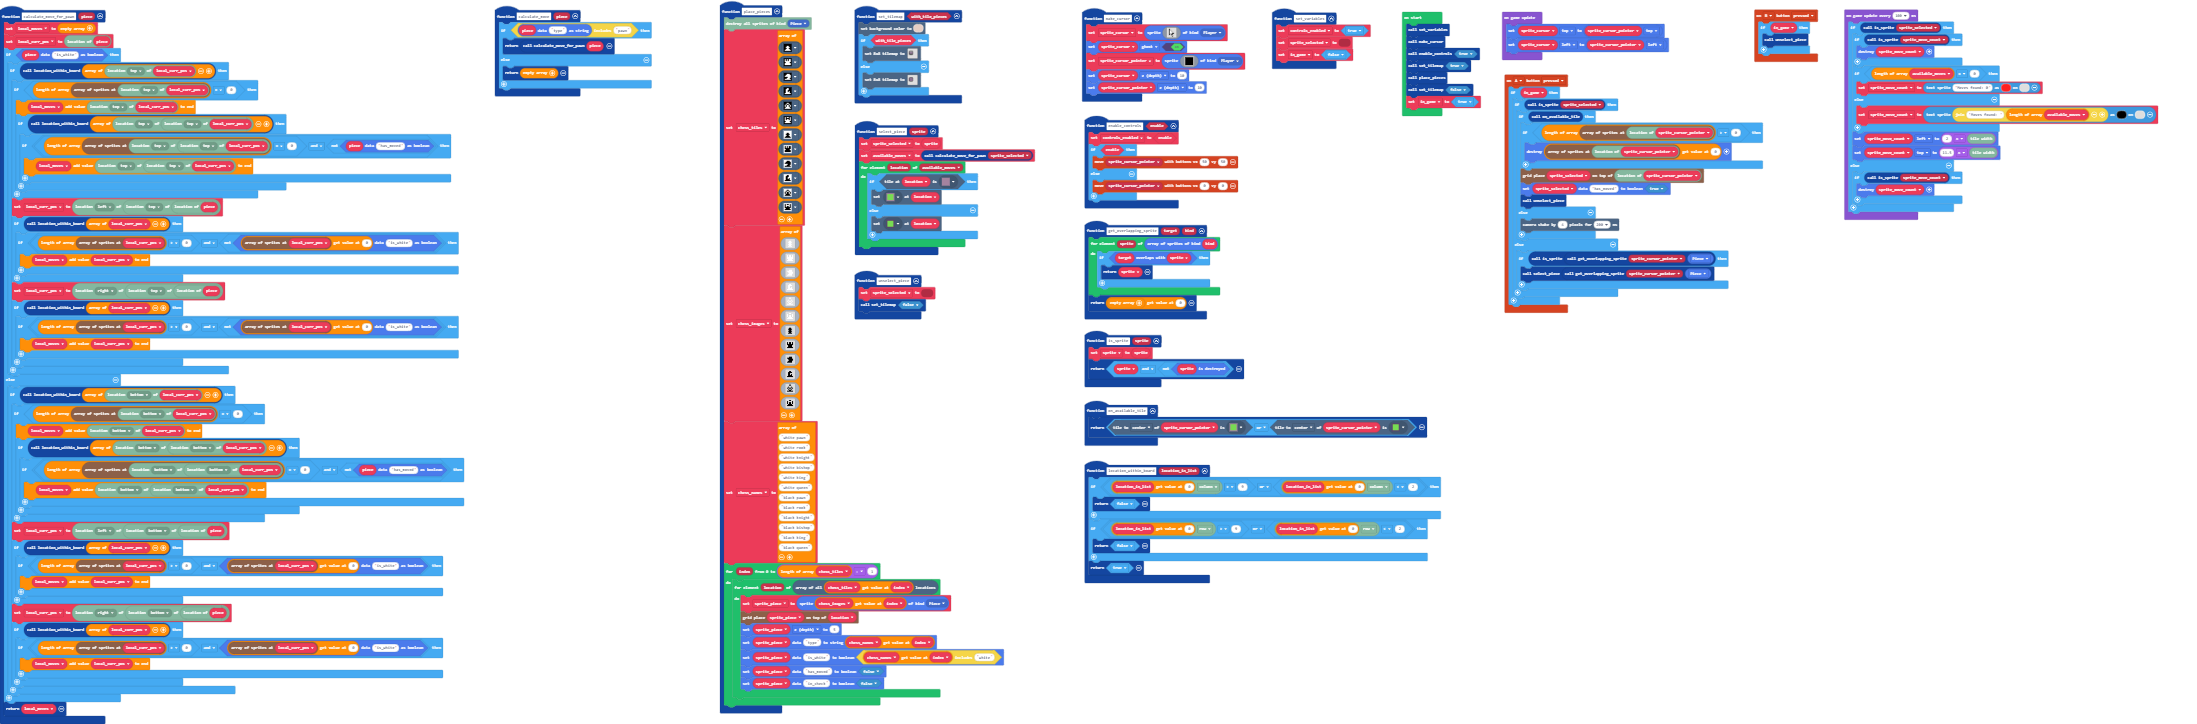
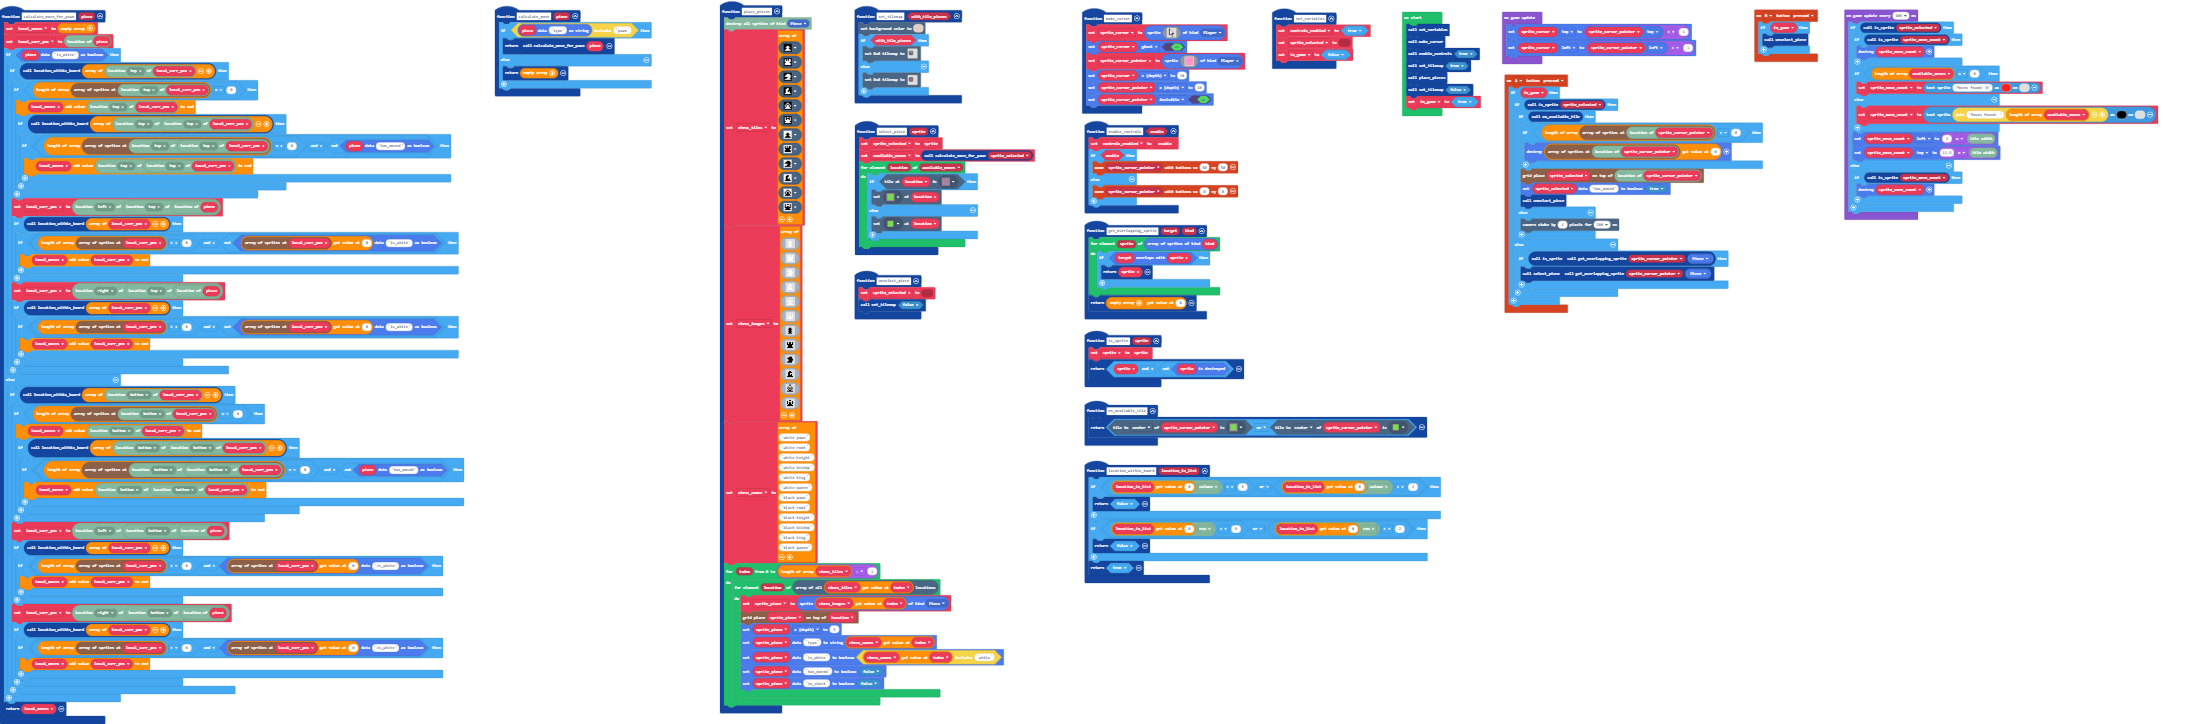
Make cursor overlapper bigger

Changed region(s): [[0.4952, 0.1215, 0.5881, 0.3039], [0.6809, 0.0304, 0.7738, 0.0912]]

diff --git a/main.ts b/main.ts
@@ -132,11 +132,10 @@ function make_cursor () {
         . . . . . . f . . . 
         `, SpriteKind.Player)
     sprite_cursor.setFlag(SpriteFlag.Ghost, true)
-    sprite_cursor_pointer = sprites.create(img`
-        f 
-        `, SpriteKind.Player)
+    sprite_cursor_pointer = sprites.create(assets.image`cursor_overlapper`, SpriteKind.Player)
     sprite_cursor.z = 10
     sprite_cursor_pointer.z = 10
+    sprite_cursor_pointer.setFlag(SpriteFlag.Invisible, true)
 }
 function calculate_move_for_pawn (piece: Sprite) {
     local_moves = []
@@ -249,8 +248,8 @@ place_pieces()
 set_tilemap(false)
 in_game = true
 game.onUpdate(function () {
-    sprite_cursor.top = sprite_cursor_pointer.top
-    sprite_cursor.left = sprite_cursor_pointer.left
+    sprite_cursor.top = sprite_cursor_pointer.top + 1
+    sprite_cursor.left = sprite_cursor_pointer.left + 1
 })
 game.onUpdateInterval(100, function () {
     if (is_sprite(sprite_selected)) {

diff --git a/images.g.ts b/images.g.ts
@@ -135,6 +135,12 @@ namespace myImages {
 . 1 1 1 1 1 1 . 
 . . . . . . . . 
 `;
+            case "image13":
+            case "cursor_overlapper":return img`
+3 3 3 
+3 3 3 
+3 3 3 
+`;
         }
         return null;
     })
